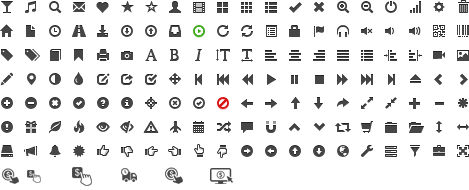
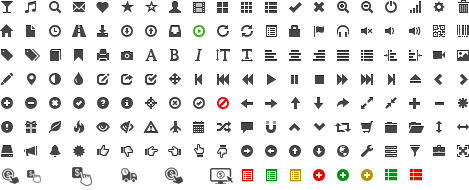
Commit changes for andication of filled and unfilled categories,price and weight

Changed region(s): [[0.5672, 0.8684, 0.9254, 0.9737], [0.5075, 0.8684, 0.5373, 0.9737]]

diff --git a/web/bundles/lovethatfit/admin/css/admin.css b/web/bundles/lovethatfit/admin/css/admin.css
@@ -356,20 +356,28 @@ i.icon-desc {
     height: 16px;
 }
 i.icon-desc-no-desc {
-	border:1px solid #F00;
+	background-position: -238px -167px;
+    width: 19px;
+    height: 16px;
 }
 i.icon-desc-have-desc {
 	border:none;
 }
 i.icon-desc-have-desc-yellow {
-		border:1px solid #FF0;
+	background-position: -288px -167px;
+    width: 19px;
+    height: 16px;
 }
 i.icon-desc-have-desc-green {
-		border:1px solid #090;
+	background-position: -261px -167px;
+    width: 19px;
+    height: 16px;
 }
 
 i.price-edit-no-price {
-	border:1px solid #F00;
+	background-position: -310px -167px;
+    width: 19px;
+    height: 16px;
 }
 
 i.price-edit-have-price {
@@ -377,17 +385,25 @@ i.price-edit-have-price {
 }
 
 i.price-edit-green {
-	border:1px solid #090;
+	background-position: -334px -167px;
+    width: 19px;
+    height: 16px;
 }
 i.price-edit-yellow {
-	border:1px solid #FF0;
+	background-position: -358px -167px;
+    width: 19px;
+    height: 16px;
 }
 
 i.cat-no-value {
-	border:1px solid #F00;
+	background-position: -408px -167px;
+    width: 19px;
+    height: 16px;
 }
 
 i.cat-have-value {
-	border:none;
+	background-position: -382px -167px;
+    width: 19px;
+    height: 16px;
 }
 
